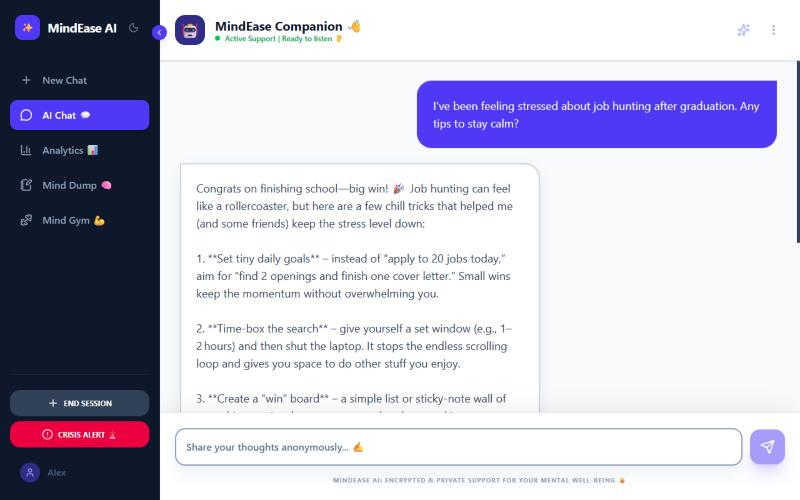
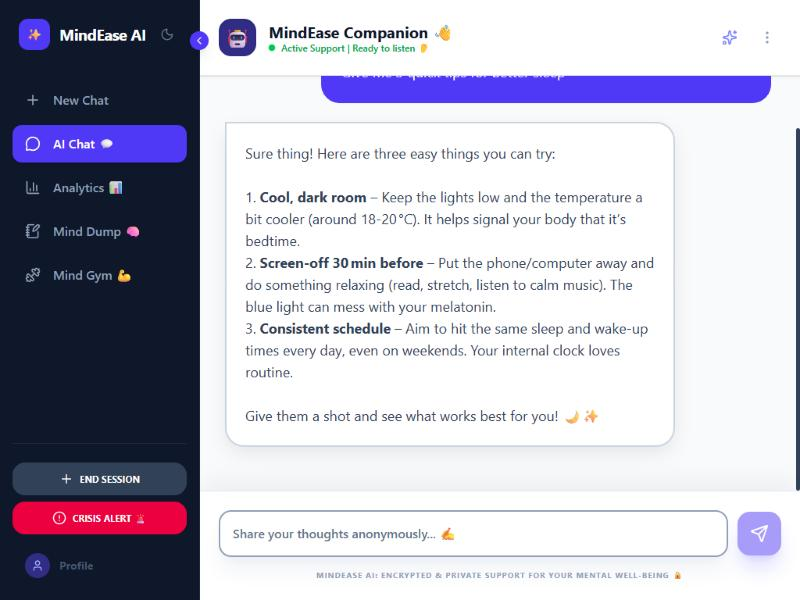
Render bold and italic text in chat replies, update chat screenshot

Changed region(s): [[0.0, 0.0, 1.0, 1.0], [0.9688, 0.48, 1.0, 0.81], [0.9062, 0.03, 0.9375, 0.09]]

diff --git a/frontend/src/pages/Chat.jsx b/frontend/src/pages/Chat.jsx
@@ -3,6 +3,15 @@ import { motion, AnimatePresence } from 'framer-motion';
 import { Send, Square, Mic, Image, Paperclip, Sparkles, MoreVertical, AlertCircle } from 'lucide-react';
 import { sendMessage, streamMessage, getHistory, getSessions, getSessionMessages, getReflection, cancelMessage } from '../services/api';
 
+// Show the AI's **bold** and *italic* markdown as styled text instead of raw asterisks.
+function renderInline(text) {
+  return text.split(/(\*\*[^*\n]+\*\*|\*[^*\n]+\*)/g).map((part, i) => {
+    if (part.length > 4 && part.startsWith('**') && part.endsWith('**')) return <strong key={i}>{part.slice(2, -2)}</strong>;
+    if (part.length > 2 && part.startsWith('*') && part.endsWith('*')) return <em key={i}>{part.slice(1, -1)}</em>;
+    return part;
+  });
+}
+
 const WELCOME_FIRST_TIME = {
   id: 1,
   role: 'assistant',
@@ -374,7 +383,7 @@ export default function Chat({ darkMode, showCrisis, setShowCrisis, sessionId, v
                 : 'bg-white text-slate-700 border-slate-300 shadow-[0_10px_25px_-5px_rgba(0,0,0,0.1)] rounded-tl-none'
             }`}
           >
-            {msg.content && <p className="text-lg whitespace-pre-wrap">{msg.content}</p>}
+            {msg.content && <p className="text-lg whitespace-pre-wrap">{msg.role === 'assistant' ? renderInline(msg.content) : msg.content}</p>}
             {msg.subtext && (
               <p
                 className={`mt-3 text-sm opacity-70 italic ${
